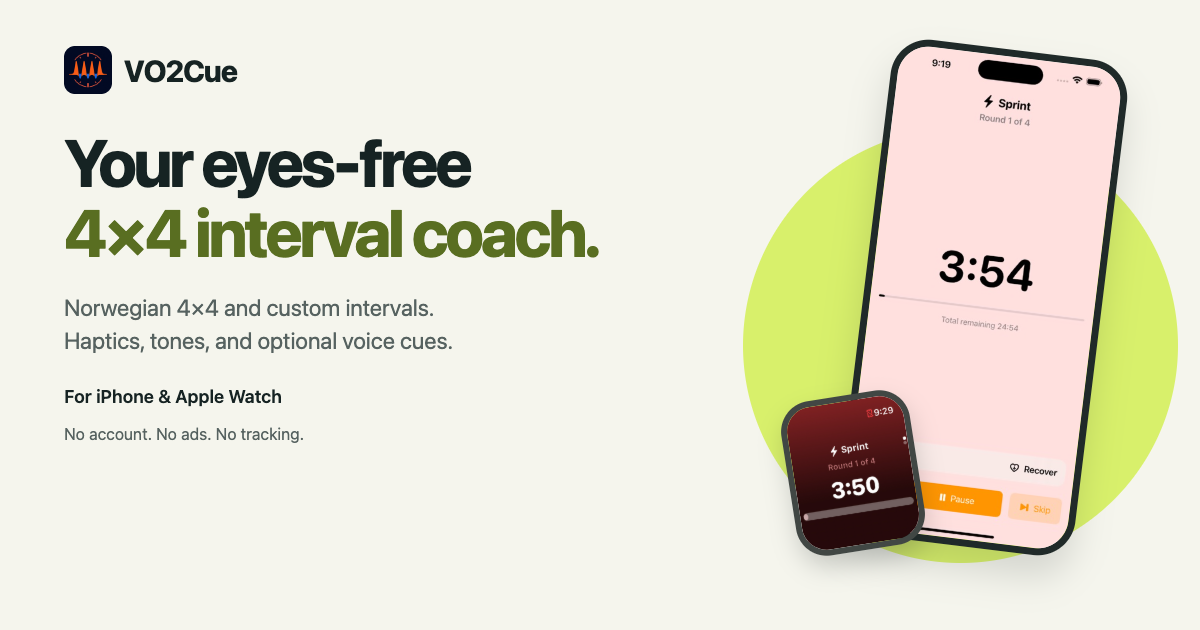
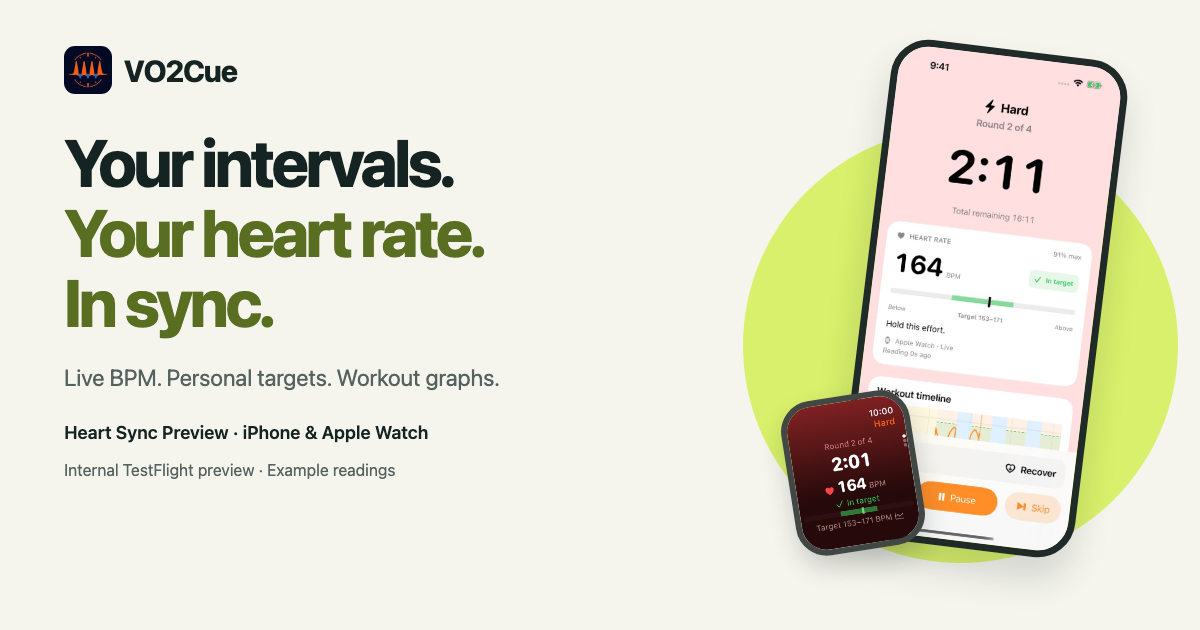
Showcase Heart Sync Preview on the GitHub Pages demo

diff --git a/docs/index.html b/docs/index.html
@@ -3,10 +3,10 @@
 <head>
   <meta charset="utf-8">
   <meta name="viewport" content="width=device-width, initial-scale=1">
-  <meta name="description" content="Train with Norwegian 4×4 and custom intervals on iPhone and Apple Watch. VO2Cue guides you with haptics, tones, and voice cues. No account, ads, or tracking.">
+  <meta name="description" content="Your eyes-free interval coach for iPhone and Apple Watch. Explore Heart Sync Preview: live heart rate, personal target ranges, and workout graphs. No account or ads.">
   <meta name="theme-color" content="#101a1b">
   <meta property="og:title" content="VO2Cue — 4×4 Interval Timer for iPhone &amp; Apple Watch">
-  <meta property="og:description" content="Train with Norwegian 4×4 and custom intervals on iPhone and Apple Watch. VO2Cue guides you with haptics, tones, and voice cues. No account, ads, or tracking.">
+  <meta property="og:description" content="Your eyes-free interval coach for iPhone and Apple Watch. Explore Heart Sync Preview: live heart rate, personal target ranges, and workout graphs. No account or ads.">
   <meta property="og:type" content="website">
   <meta property="og:url" content="https://greggroll.github.io/VO2Cue/">
   <meta property="og:site_name" content="VO2Cue">
@@ -14,18 +14,18 @@
   <meta property="og:image" content="https://greggroll.github.io/VO2Cue/assets/social-preview.png">
   <meta property="og:image:width" content="1200">
   <meta property="og:image:height" content="630">
-  <meta property="og:image:alt" content="VO2Cue, an eyes-free 4×4 interval coach for iPhone and Apple Watch, with the live workout timer on both devices.">
+  <meta property="og:image:alt" content="VO2Cue, an eyes-free 4×4 interval coach for iPhone and Apple Watch, with Heart Sync Preview showing live BPM and personal target ranges on both devices.">
   <meta name="twitter:card" content="summary_large_image">
   <meta name="twitter:title" content="VO2Cue — 4×4 Interval Timer for iPhone &amp; Apple Watch">
-  <meta name="twitter:description" content="Norwegian 4×4 and custom intervals, guided by haptics, tones, and voice cues. No account, ads, or tracking.">
+  <meta name="twitter:description" content="Your eyes-free interval coach for iPhone and Apple Watch. Explore Heart Sync Preview: live heart rate, personal target ranges, and workout graphs. No account or ads.">
   <meta name="twitter:image" content="https://greggroll.github.io/VO2Cue/assets/social-preview.png">
-  <meta name="twitter:image:alt" content="VO2Cue interval timers on iPhone and Apple Watch.">
+  <meta name="twitter:image:alt" content="VO2Cue Heart Sync Preview with live heart rate on iPhone and Apple Watch.">
   <meta name="apple-itunes-app" content="app-id=6804899072">
   <link rel="icon" type="image/png" href="assets/favicon-32.png" sizes="32x32">
   <link rel="apple-touch-icon" href="assets/apple-touch-icon.png" sizes="180x180">
   <title>VO2Cue — 4×4 Interval Timer for iPhone &amp; Apple Watch</title>
   <link rel="canonical" href="https://greggroll.github.io/VO2Cue/">
-  <link rel="stylesheet" href="demo/demo.css?v=20261019">
+  <link rel="stylesheet" href="demo/demo.css?v=20261021">
   <link rel="sitemap" type="application/xml" href="sitemap.xml">
   <script type="application/ld+json">
 {
@@ -50,9 +50,9 @@
       "@id": "https://greggroll.github.io/VO2Cue/#webpage",
       "url": "https://greggroll.github.io/VO2Cue/",
       "name": "VO2Cue — 4×4 Interval Timer for iPhone & Apple Watch",
-      "description": "Train with Norwegian 4×4 and custom intervals on iPhone and Apple Watch. VO2Cue guides you with haptics, tones, and voice cues. No account, ads, or tracking.",
+      "description": "Your eyes-free interval coach for iPhone and Apple Watch. Explore Heart Sync Preview: live heart rate, personal target ranges, and workout graphs. No account or ads.",
       "inLanguage": "en",
-      "dateModified": "2026-10-19",
+      "dateModified": "2026-10-21",
       "isPartOf": {
         "@id": "https://greggroll.github.io/VO2Cue/#website"
       },
@@ -108,25 +108,42 @@
 <a class="skip" href="#main">Skip to content</a>
 <header class="header wrap">
   <a class="brand" href="./" aria-label="VO2Cue home"><img class="app-icon" src="assets/app-icon-44.png" srcset="assets/app-icon-44.png 1x, assets/app-icon-88.png 2x, assets/app-icon-132.png 3x" width="44" height="44" alt=""> VO2Cue</a>
-  <nav aria-label="Main navigation"><a href="#screenshots">The app</a><a href="#widgets">Widgets</a><a href="#how-to">How to use</a><a href="#contribute">Contribute</a><a class="nav-download" href="https://apps.apple.com/us/app/vo2cue/id6804899072">Get VO2Cue <span aria-hidden="true">↗</span></a></nav>
+  <nav aria-label="Main navigation"><a href="#screenshots">The app</a><a href="#heart-rate">Heart rate</a><a href="#widgets">Widgets</a><a href="#how-to">How to use</a><a href="#contribute">Contribute</a><a class="nav-download" href="https://apps.apple.com/us/app/vo2cue/id6804899072">Get VO2Cue <span aria-hidden="true">↗</span></a></nav>
 </header>
 <main id="main" tabindex="-1">
   <section class="hero wrap">
     <div class="hero-copy">
-      <p class="eyebrow"><span class="dot"></span> YOUR EFFORT. OUR CUES.</p>
-      <h1>Your eyes-free<br><em>4×4 interval coach.</em></h1>
-      <p class="intro">VO2Cue is an interval timer for iPhone and Apple Watch. Train with Norwegian 4×4 or custom intervals, guided by haptics, tones, and optional voice cues.</p>
-      <div class="actions"><a class="button" href="https://apps.apple.com/us/app/vo2cue/id6804899072"><span>Download on the<br><strong>App Store</strong></span><span class="arrow" aria-hidden="true">↗</span></a><a class="text-link" href="#how-to">See how it works <span aria-hidden="true">↓</span></a></div>
-      <p class="small">For iPhone & Apple Watch · Open source · No account required</p>
-      <div class="hero-facts"><div><strong>4 × 4</strong><span>Norwegian 4×4, ready to go</span></div><div><strong>Your pace</strong><span>Custom workouts & cues</span></div></div>
+      <p class="eyebrow"><span class="dot"></span> NEW IN HEART SYNC PREVIEW</p>
+      <h1>Your intervals.<br><em>Your heart rate.<br>In sync.</em></h1>
+      <p class="intro">Meet Heart Sync Preview. Follow live Apple Watch heart rate, see your target range, and trace your effort through every interval. Your eyes-free 4×4 coach now gives you more to go on.</p>
+      <div class="actions"><a class="button" href="https://apps.apple.com/us/app/vo2cue/id6804899072"><span>Download on the<br><strong>App Store</strong></span><span class="arrow" aria-hidden="true">↗</span></a><a class="text-link" href="#heart-rate">Explore heart rate <span aria-hidden="true">↓</span></a></div>
+      <p class="small">For iPhone &amp; Apple Watch · Open source · No account required</p><p class="preview-note">Heart Sync is currently an internal TestFlight preview. App Store availability may differ.</p>
+      <div class="hero-facts"><div><strong>4 × 4</strong><span>Norwegian 4×4, ready to go</span></div><div><strong>Your range</strong><span>Personal work &amp; recovery targets</span></div></div>
     </div>
     <figure class="hero-visual"><div class="hero-art">
       <div class="orbit" aria-hidden="true"></div>
-      <div class="phone"><picture><source type="image/webp" srcset="demo/assets/timer-160.webp 160w, demo/assets/timer-240.webp 240w, demo/assets/timer-360.webp 360w" sizes="234px"><img src="demo/assets/timer.jpg" width="360" height="780" alt="VO2Cue live timer showing Sprint, round 1 of 4, 3 minutes 54 seconds remaining, and End, Pause, and Skip controls." fetchpriority="high"></picture></div>
-      <div class="watch"><picture><source type="image/webp" srcset="demo/assets/watch-160.webp 160w, demo/assets/watch-240.webp 240w, demo/assets/watch-360.webp 360w, demo/assets/watch-422.webp 422w" sizes="129px"><img src="demo/assets/watch.jpg" width="422" height="514" alt="The live interval timer in VO2Cue on Apple Watch."></picture></div>
-    </div><figcaption class="art-note">A glance when you need it.<br>A cue when you don’t.</figcaption></figure>
+      <div class="phone"><picture><source type="image/webp" srcset="demo/assets/heart-rate-phone-160.webp 160w, demo/assets/heart-rate-phone-240.webp 240w, demo/assets/heart-rate-phone-360.webp 360w, demo/assets/heart-rate-phone-480.webp 480w, demo/assets/heart-rate-phone-600.webp 600w" sizes="(max-width:650px) 201px, (max-width:900px) 206px, 234px"><img src="demo/assets/heart-rate-phone.jpg" width="600" height="1304" alt="Heart Sync Preview on iPhone showing the Hard interval, 164 BPM, and an in-target reading against a 153–171 BPM target." fetchpriority="high"></picture></div>
+      <div class="watch"><picture><source type="image/webp" srcset="demo/assets/heart-rate-hard-160.webp 160w, demo/assets/heart-rate-hard-240.webp 240w, demo/assets/heart-rate-hard-360.webp 360w, demo/assets/heart-rate-hard-422.webp 422w" sizes="129px"><img src="demo/assets/heart-rate-hard.jpg" width="422" height="514" alt="Apple Watch showing the same Hard interval with 164 BPM and a 153–171 BPM target." loading="lazy"></picture></div>
+    </div><figcaption class="art-note">One workout. Two screens.<br>Live BPM and your personal range.</figcaption></figure>
   </section>
   <div class="activity-strip"><div class="wrap"><span>ONE COACH. YOUR KIND OF CARDIO.</span><p>Swim <b>·</b> Run <b>·</b> Cycle <b>·</b> Row <b>·</b> Train</p></div></div>
+  <section class="heart-rate" id="heart-rate" aria-labelledby="heart-rate-title"><div class="wrap section">
+    <div class="section-heading"><div><p class="eyebrow">HEART SYNC PREVIEW</p><h2 id="heart-rate-title">Find your range.<br>Own your effort.</h2></div><p>Your Apple Watch measures. Your iPhone mirrors. Follow fresh BPM, personal targets, and optional spoken heart-rate cues through hard efforts and recovery.</p></div>
+    <div class="heart-showcase">
+      <div class="heart-phases">
+        <figure><div class="heart-watch-art"><picture><source type="image/webp" srcset="demo/assets/heart-rate-hard-160.webp 160w, demo/assets/heart-rate-hard-240.webp 240w, demo/assets/heart-rate-hard-360.webp 360w, demo/assets/heart-rate-hard-422.webp 422w" sizes="(max-width:390px) 200px, (max-width:650px) 160px, 190px"><img src="demo/assets/heart-rate-hard.jpg" width="422" height="514" alt="Hard interval on Apple Watch: round 2 of 4, 2:01 remaining, 164 BPM, in target at 153–171 BPM." loading="lazy"></picture></div><figcaption><span>01 / HARD EFFORT</span><h3>Build into your range</h3><p>Live BPM and a clear range meter show where your effort sits against your work target.</p></figcaption></figure>
+        <figure><div class="heart-watch-art recovery-art"><picture><source type="image/webp" srcset="demo/assets/heart-rate-recovery-160.webp 160w, demo/assets/heart-rate-recovery-240.webp 240w, demo/assets/heart-rate-recovery-360.webp 360w, demo/assets/heart-rate-recovery-422.webp 422w" sizes="(max-width:390px) 200px, (max-width:650px) 160px, 190px"><img src="demo/assets/heart-rate-recovery.jpg" width="422" height="514" alt="Recovery interval on Apple Watch with live BPM and a separate 108–126 BPM recovery target." loading="lazy"></picture></div><figcaption><span>02 / ACTIVE RECOVERY</span><h3>See your target shift</h3><p>A separate recovery range helps you follow the easier part of each cycle.</p></figcaption></figure>
+      </div>
+      <figure class="heart-timeline"><div class="heart-graph-art"><picture><source type="image/webp" srcset="demo/assets/heart-rate-timeline-160.webp 160w, demo/assets/heart-rate-timeline-240.webp 240w, demo/assets/heart-rate-timeline-360.webp 360w, demo/assets/heart-rate-timeline-480.webp 480w, demo/assets/heart-rate-timeline-640.webp 640w, demo/assets/heart-rate-timeline-800.webp 800w" sizes="(max-width:650px) calc(100vw - 88px), (max-width:900px) calc(100vw - 144px), 488px"><img src="demo/assets/heart-rate-timeline.jpg" width="800" height="698" alt="Workout timeline with an orange BPM line, alternating hard and recovery bands, and dashed upper and lower heart-rate targets." loading="lazy"></picture></div><figcaption><span>03 / THE WHOLE SESSION</span><h3>Every interval. Every heartbeat.</h3><p>See your BPM line against hard and recovery bands and dashed target ranges. Tap the graph on iPhone to inspect readings, then revisit the recorded graph in workout history.</p></figcaption></figure>
+    </div>
+    <dl class="heart-benefits">
+      <div><dt>Targets that fit you</dt><dd>Confirm your maximum heart rate. Use personal work and recovery ranges, or set custom BPM targets for a profile.</dd></div>
+      <div><dt>In sync, from your wrist</dt><dd>Watch runs the workout and shares its timer and heart rate with iPhone. Pause, resume, skip, or end from either screen.</dd></div>
+      <div><dt>Your heart rate stays yours</dt><dd>Recorded graphs stay on your devices. Health access is optional; a phone-only timer is always available.</dd></div>
+    </dl>
+    <p class="heart-preview"><strong>Preview feature · 1.2 (8)</strong> Heart Sync is in internal TestFlight testing; availability in the public App Store build may differ. <a href="https://github.com/GreggRoll/VO2Cue/blob/main/docs/heart-sync-testing.md">Read the preview setup and testing guide <span aria-hidden="true">↗</span></a></p>
+    <p class="caption">Actual iPhone and Apple Watch simulator UI with example heart-rate readings, not a recorded workout. The graph image is cropped to show the full timeline card. Live readings require Apple Watch and Health permission; graphs appear after readings are recorded.</p>
+  </div></section>
   <section class="section wrap" id="screenshots">
     <div class="section-heading"><div><p class="eyebrow">A LOOK INSIDE</p><h2>Custom intervals.<br>Clear workout cues.</h2></div><p>Build the session that fits your day, follow each interval, and keep a record of the work you put in.</p></div>
     <div class="gallery">
@@ -149,8 +166,8 @@
     <div><p class="eyebrow">YOUR FIRST SESSION</p><h2>Ready in<br>a few taps.</h2><p class="guide-intro">Set it up on your iPhone. Train with your phone or start a session from your Apple Watch.</p><div class="recipe"><span>THE NORWEGIAN 4×4</span><strong>10 min warmup</strong><p>4 min hard effort + 3 min recovery between efforts, for 4 rounds.</p><small>35 minutes total · Optional cooldown</small></div></div>
     <ol class="steps" role="list">
       <li><h3>Choose or create a workout</h3><p>Open the Workouts tab and select a profile. Tap the <strong>+</strong> button to create one, or open a saved workout and tap <strong>Edit</strong>.</p></li>
-      <li><h3>Set your intervals and cues</h3><p>Choose your activity, work and recovery durations, repeat count, warmup, and cooldown. Enable haptics, tones, or voice cues and customize the cue labels.</p></li>
-      <li><h3>Start and follow the cues</h3><p>Tap <strong>Start workout</strong> on the workout detail screen. On Apple Watch, open VO2Cue and choose a workout; profiles sync from your iPhone when connected. Use <strong>Pause</strong>, resume, <strong>Skip</strong>, or <strong>End</strong> as needed.</p></li>
+      <li><h3>Set your intervals and cues</h3><p>Choose your activity, work and recovery durations, repeat count, warmup, and cooldown. Enable haptics, tones, or voice cues and customize the cue labels. For Heart Sync Preview, confirm your maximum in <strong>Settings → Heart-rate targets</strong> and customize profile targets if needed.</p></li>
+      <li><h3>Start and follow the cues</h3><p>Tap <strong>Start workout</strong> on the workout detail screen. On Apple Watch, open VO2Cue and choose a workout; profiles sync from your iPhone when connected. In Heart Sync Preview, choose <strong>Start with Apple Watch</strong> on iPhone and allow workout and heart-rate access on Watch to mirror your session. Use <strong>Pause</strong>, resume, <strong>Skip</strong>, or <strong>End</strong> as needed.</p></li>
       <li><h3>Review your session</h3><p>Open <strong>Progress</strong> after your workout to review actual active minutes, your weekly goal, and recent sessions. To also save completed workouts to Apple Health, open <strong>Settings</strong>, enable <strong>Save completed workouts</strong>, and tap <strong>Request Health access</strong>.</p></li>
     </ol>
   </div></section>
@@ -171,10 +188,12 @@
       <div><h3>Can I train with Apple Watch without holding my iPhone?</h3><p>Yes. Open VO2Cue on Apple Watch to start, pause, resume, skip, or end a session from your wrist. Set up and customize profiles on iPhone, then let them sync to your watch while the devices are connected. Once your profile and purchase access are available on the watch, you can run the session there without holding your phone.</p></div>
       <div><h3>Does VO2Cue work offline?</h3><p>The core interval timer and local workout history do not need an internet connection or a VO2Cue account. Downloading the app, completing or restoring purchases, and sending optional feedback need a connection. Custom profile transfers between iPhone and Apple Watch depend on the devices being able to connect.</p></div>
       <div><h3>Can I lock my iPhone or listen to music?</h3><p>Enable <strong>tones or voice cues</strong> for a phone workout to keep scheduled audio cues playing with the screen locked. Workout audio mixes with music from other apps. A call or an audio interruption can pause the session; reopen VO2Cue and resume when ready. With both tones and voice disabled, keep the app open for reliable phase updates.</p></div>
-      <div><h3>Do I need to share my health data?</h3><p>No. Apple Health access is optional. You can use the timer and local history without granting it. With permission, Apple Watch can show live heart rate during a workout and VO2Cue can save completed workouts to Apple Health. Profiles and VO2Cue history stay on your devices. Read the <a href="privacy/">privacy policy</a> for details.</p></div>
+      <div><h3>How does heart rate tracking work?</h3><p>In <strong>Heart Sync Preview</strong>, Apple Watch runs the workout and streams fresh heart-rate readings to your iPhone. Set your maximum in <strong>Settings → Heart-rate targets</strong>, then choose <strong>Start with Apple Watch</strong> and grant Health permission. Work and recovery have separate targets, with optional heart-rate cues. Recorded readings create a live graph and a saved workout timeline.</p></div>
+      <div><h3>What happens if a heart-rate reading is missing?</h3><p>The interval timer continues. After 15 seconds without a fresh reading, the current BPM and range comparison clear. Previously recorded graph points remain, with gaps for missing readings and skipped time. A phone-only timer works without heart-rate access.</p></div>
+      <div><h3>Do I need to share my health data?</h3><p>No. Apple Health access is optional. You can use the timer and local history without granting it. With permission, Heart Sync Preview shows live Watch heart rate and records local graphs; VO2Cue can also save completed workouts to Apple Health. Profiles and VO2Cue history stay on your devices. Read the <a href="privacy/">privacy policy</a> for details.</p></div>
       <div><h3>What does VO2Cue cost?</h3><p>VO2Cue is <strong>free to download</strong>. In-app purchase options include a <strong>$1.99 monthly membership</strong> or <strong>$19.99 lifetime access</strong> in the US. Existing paid-app buyers retain lifetime access. Prices and available options may vary by region and app version; check the <a href="https://apps.apple.com/us/app/vo2cue/id6804899072">App Store listing</a> and purchase screen before buying.</p><p class="small">Free download confirmed <time datetime="2026-10-19">October 19, 2026</time>. Membership and lifetime prices are US prices; open-source availability and the contributor reward are separate from in-app purchases.</p></div>
     </div>
-    <p class="developer-note">Created by <a href="https://github.com/GreggRoll">Greg Adams (Gregory Colton Adams)</a>. Product information updated <time datetime="2026-10-19">October 19, 2026</time>. Need help? <a href="https://github.com/GreggRoll/VO2Cue/issues">Visit VO2Cue support</a>.</p>
+    <p class="developer-note">Created by <a href="https://github.com/GreggRoll">Greg Adams (Gregory Colton Adams)</a>. Product information updated <time datetime="2026-10-21">October 21, 2026</time>. Need help? <a href="https://github.com/GreggRoll/VO2Cue/issues">Visit VO2Cue support</a>.</p>
   </section>
   <section class="section wrap contribute" id="contribute" aria-labelledby="contribute-title">
     <div class="section-heading"><div><p class="eyebrow">OPEN SOURCE. OPEN TO YOUR IDEAS.</p><h2 id="contribute-title">Help build VO2Cue.<br>Get a lifetime thank-you.</h2></div><p>VO2Cue is open source under the <a class="text-link" href="https://github.com/GreggRoll/VO2Cue/blob/main/LICENSE">MIT License</a>. Everyone is welcome to help with bug fixes, new features, accessibility, documentation, and tests.</p></div>

diff --git a/docs/demo/demo.css b/docs/demo/demo.css
@@ -41,3 +41,29 @@ footer nav{flex-wrap:wrap;gap:12px}
 footer nav a{display:inline-flex;align-items:center;min-height:44px;padding:4px}
 @media(max-width:900px){.product-facts{grid-template-columns:repeat(2,minmax(0,1fr))}.header{padding-top:20px;padding-bottom:20px}.header nav{gap:16px}.faq-list{column-gap:32px}}
 @media(max-width:650px){.hero{grid-template-columns:minmax(0,1fr)}.hero h1{font-size:clamp(44px,10vw,64px);letter-spacing:-2px}.hero-visual .art-note{text-align:center}.hero-art{min-height:520px}.faq-list{grid-template-columns:minmax(0,1fr)}.product-facts{gap:12px;margin-bottom:48px}.product-facts>div{padding:16px}.gallery figcaption span{font-size:12px;letter-spacing:.5px}.eyebrow{font-size:12px}.header nav{gap:10px}.contribute-button{white-space:normal}}
+
+/* Heart Sync uses native simulator captures with example readings. */
+.preview-note{font-size:13px;line-height:1.6;color:var(--muted);max-width:440px;padding-left:12px;border-left:2px solid #778f33}
+.heart-rate{background:#162323;color:var(--paper)}
+.heart-rate .section-heading>p,.heart-rate figcaption p,.heart-rate .caption{color:#c3cec6}
+.heart-rate .eyebrow,.heart-rate figcaption span{color:var(--accent)}
+.heart-showcase{display:grid;grid-template-columns:1fr 1.15fr;gap:40px;align-items:start}
+.heart-phases{display:grid;grid-template-columns:repeat(2,minmax(0,1fr));gap:24px}
+.heart-showcase figure{min-width:0}
+.heart-watch-art{display:flex;justify-content:center;align-items:center;background:#2d3933;border:1px solid #46534b;border-radius:24px;padding:24px 12px;min-height:280px}
+.heart-watch-art img{width:190px;border:6px solid #444e48;border-radius:32px;box-shadow:0 14px 24px #0003}
+.recovery-art{background:#253b38}
+.heart-graph-art{background:#2d3933;border:1px solid #46534b;border-radius:24px;padding:20px}
+.heart-graph-art picture{display:block}.heart-graph-art img{border-radius:20px;width:100%}
+.heart-rate figcaption{padding-top:22px}.heart-rate figcaption h3{font-size:21px}
+.heart-benefits{display:grid;grid-template-columns:repeat(3,minmax(0,1fr));gap:32px;margin:48px 0 32px;padding-top:32px;border-top:1px solid #46534b}
+.heart-benefits dt{font-size:18px;font-weight:700;line-height:1.4}.heart-benefits dd{margin:12px 0 0;font-size:14px;color:#c3cec6}
+.heart-preview{font-size:14px;line-height:1.7;padding:20px 24px;border:1px solid #556247;border-radius:16px;color:#d5dfd2}
+.heart-preview strong{display:block;color:var(--accent);margin-bottom:6px}.heart-preview a{text-decoration:underline;text-underline-offset:3px}
+.heart-rate a:focus-visible{outline-color:var(--accent)}
+@media(max-width:900px){.heart-showcase{grid-template-columns:minmax(0,1fr);gap:36px}.heart-watch-art{min-height:290px}.heart-timeline{max-width:650px;width:100%;margin:auto}.heart-benefits{gap:24px}.header nav{gap:14px}}
+@media(max-width:650px){.heart-phases{gap:16px}.heart-watch-art{padding:20px 8px;min-height:0}.heart-watch-art img{width:160px;border-radius:28px}.heart-graph-art{padding:18px}.heart-benefits{grid-template-columns:minmax(0,1fr);gap:24px;margin-top:32px}.heart-rate figcaption h3{font-size:19px}.heart-rate figcaption span{font-size:11px;letter-spacing:.7px}.heart-preview{padding:18px}.header nav>a[href="#widgets"]{display:none}.hero-facts{gap:24px}}
+@media(max-width:390px){.heart-phases{grid-template-columns:minmax(0,1fr);gap:32px}.heart-watch-art img{width:200px}}
+.contribute-button{max-width:100%;white-space:normal;flex-shrink:1}
+h1,h2,h3{overflow-wrap:anywhere}
+@media(max-width:380px){.button>.arrow{display:none}}

diff --git a/scripts/build-site-images.py b/scripts/build-site-images.py
@@ -5,6 +5,20 @@ from PIL import Image
 ROOT = Path(__file__).resolve().parents[1]
 ASSETS = ROOT / 'docs/assets'
 SCREENSHOTS = ROOT / 'docs/demo/assets'
+CAPTURES = ROOT / 'output/app-store-screenshots/sources'
+
+# Keep the website tied to the same native UI captures as the store artwork.
+for name, capture in (
+    ('heart-rate-phone', 'iphone/heart-rate-work.png'),
+    ('heart-rate-hard', 'watch/heart-rate-work.png'),
+    ('heart-rate-recovery', 'watch/heart-rate-recovery.png'),
+    ('heart-rate-timeline', 'iphone/heart-rate-timeline.png'),
+):
+    with Image.open(CAPTURES / capture) as source:
+        if name == 'heart-rate-timeline':
+            source = source.crop((24, 900, 1182, 1910))
+        width = min(800 if name == 'heart-rate-timeline' else 600, source.width)
+        source.resize((width, round(source.height * width / source.width)), Image.Resampling.LANCZOS).convert('RGB').save(SCREENSHOTS / f'{name}.jpg', quality=88, optimize=True)
 
 with Image.open(ASSETS / 'app-icon.png') as icon:
     for size in (44, 88, 132):
@@ -12,7 +26,7 @@ with Image.open(ASSETS / 'app-icon.png') as icon:
     for size, name in ((32, 'favicon-32.png'), (180, 'apple-touch-icon.png')):
         icon.resize((size, size), Image.Resampling.LANCZOS).save(ASSETS / name, optimize=True)
 
-for name in ('timer', 'watch', 'workouts', 'profile', 'progress', 'widget-small', 'widget-medium', 'widget-complete'):
+for name in ('timer', 'watch', 'workouts', 'profile', 'progress', 'widget-small', 'widget-medium', 'widget-complete', 'heart-rate-phone', 'heart-rate-hard', 'heart-rate-recovery', 'heart-rate-timeline'):
     original = next(p for p in SCREENSHOTS.glob(f'{name}.*') if p.suffix in ('.jpg', '.png'))
     with Image.open(original) as source:
         sizes = sorted({w for w in (160, 240, 360, 480, 640, 960) if w < source.width} | {source.width})
